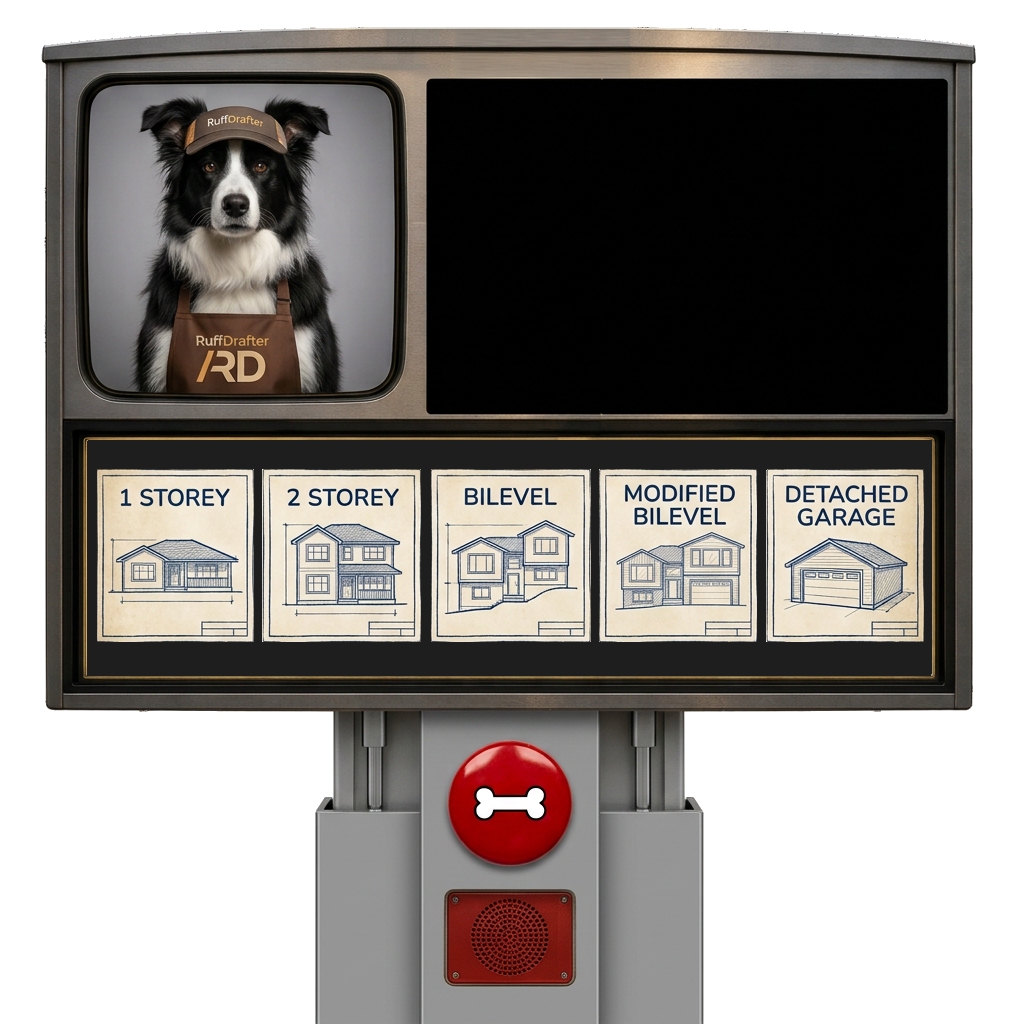
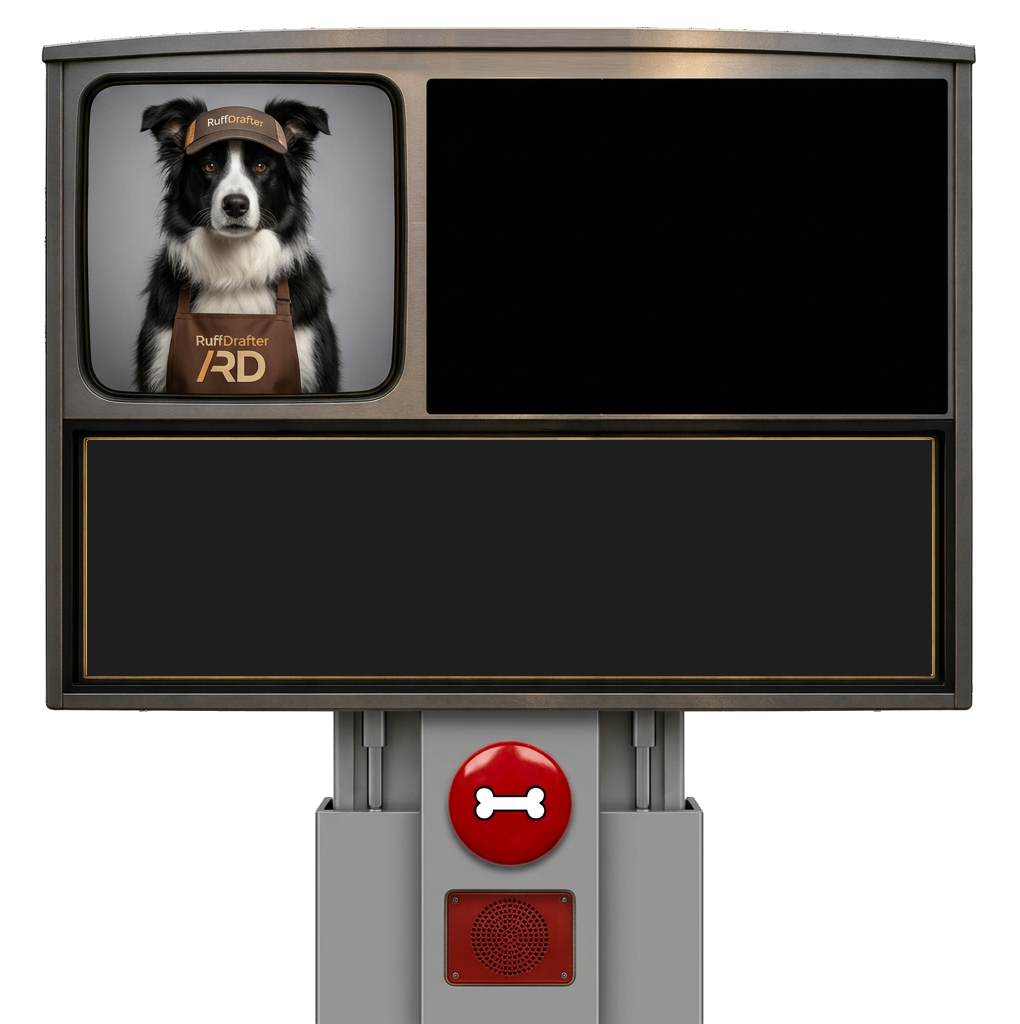
Movie's board and his five cards go up on the sign
THE ARTWORK IS THE DRIVE-THRU NOW: the blank kiosk -- Gruff in the left
window, the black screen for his words, the wide strip for the orders, the
bone on the post -- and one blueprint card per house type.

THE CARDS ARE KEYED BY MENU ID, not by position in a list. A tile looks up
./assets/house-<id>.png and wears it if it is there; if it is not, it
wears its lettering as before. So build-menu.js can grow an entry before
the art exists and nothing falls off the board, and no second ordering of
house types was written down to hang pictures on.

A TILE WEARING A CARD STILL SAYS ITS NAME. The words are clipped out of
sight rather than dropped -- the cards carry their own lettering, and a
button whose only name is a picture is a button a reader cannot read.

THE SUBMENU SPILLED OFF THE FRAME at the first card size: BUNGALOW's five
entries under the three families hung below the board, visible and
unpressable. The card is sized so both rows clear the shelf, and the new
check walks every tile at the width it happened at -- it passes at 46px
and fails at 62px, which is the only reason to believe it.

Changed region(s): [[0.0912, 0.4375, 0.9118, 0.625]]

diff --git a/MODEL.html b/MODEL.html
@@ -393,11 +393,11 @@
   #dt-line { font-size:clamp(11px, 2.1vw, 17px); font-weight:600; }
   #dt-note { font-size:clamp(9px, 1.5vw, 13px); opacity:0.7; }
   /* The tile strip: the house types, on the board's own shelf. */
-  #dt-tiles { position:absolute; left:8.6%; top:44.4%; width:81.3%; height:19%;
+  #dt-tiles { position:absolute; left:8%; top:43%; width:84%; height:23%;
     box-sizing:border-box; display:flex; flex-direction:column;
     justify-content:center; gap:4px; pointer-events:none; }
   #dt-tiles > * { pointer-events:auto; }
-  #dt-bone { position:absolute; left:50%; top:71.5%; width:14%;
+  #dt-bone { position:absolute; left:50%; top:72.4%; width:12%;
     transform:translateX(-50%); aspect-ratio:1 / 1; border:none; padding:0;
     border-radius:50%; background:transparent; cursor:pointer;
     pointer-events:auto; }
@@ -425,6 +425,24 @@
     cursor:pointer; color:#1f3f6b; padding:4px 8px; border-radius:2px;
     border:1px solid #1f3f6b; background:#f1e9d2; }
   #build-bar button:hover { background:#fff8e6; }
+  /* A CARD IS THE WHOLE BUTTON. Movie drew one per house type, lettering and
+     all, so the tile wearing one carries no text of its own -- the label
+     stays in the DOM for the reader and the check, clipped out of sight,
+     because a printed name under a printed name reads as a stutter. */
+  #build-bar button.card { padding:0; border:none; background:none;
+    line-height:0; }
+  /* TWO ROWS HAVE TO FIT THE SHELF. A family and its open submenu are both
+     on the board at once, so the card is sized so that pair clears the
+     black strip -- a tile that spills past the frame is an order the
+     drafter cannot reach. */
+  #build-bar button.card img { display:block; height:clamp(26px, 5vw, 46px);
+    width:auto; border:1px solid transparent; border-radius:2px; }
+  #build-bar button.card:hover img { border-color:#8f2a1d; }
+  #build-bar button.card.open img, #build-bar button.card.chosen img {
+    border-color:#8f2a1d; box-shadow:0 0 0 2px rgba(143,42,29,0.45); }
+  #build-bar button.card .said { position:absolute; width:1px; height:1px;
+    margin:-1px; padding:0; overflow:hidden; clip:rect(0 0 0 0);
+    white-space:nowrap; border:0; }
   /* The family whose submenu is open, and the type the drawing carries, both
      read as the page's one attention colour -- the same signal the wall tool
      uses when it is armed. */
@@ -3101,6 +3119,34 @@
   const familyRow = document.getElementById('build-families');
   const entryRow = document.getElementById('build-entries');
   let openFamilyId = null;
+  // THE CARDS ARE KEYED BY MENU ID, not by position in a list. Movie drew
+  // five -- 1 STOREY, 2 STOREY, BILEVEL, MODIFIED BILEVEL, DETACHED GARAGE --
+  // and they hang off whichever tile carries that id, family or entry. A tile
+  // with no card falls back to its lettering, so build-menu.js can grow an
+  // entry before the art for it exists and nothing disappears off the board.
+  const CARD_ART = Object.freeze({
+    bungalow: './assets/house-bungalow.png',
+    twoStorey: './assets/house-twoStorey.png',
+    bilevel: './assets/house-bilevel.png',
+    modifiedBilevel: './assets/house-modifiedBilevel.png',
+    detachedGarage: './assets/house-detachedGarage.png',
+  });
+
+  // The card if there is one, the words if there is not. Either way the
+  // label is the button's text, which is what every check reads and what a
+  // screen reader says.
+  const dressTile = (button, id, label) => {
+    const art = CARD_ART[id];
+    if (!art) { button.textContent = label; return; }
+    const card = document.createElement('img');
+    card.src = art;
+    card.alt = '';
+    const said = document.createElement('span');
+    said.className = 'said';
+    said.textContent = label;
+    button.replaceChildren(card, said);
+    button.classList.add('card');
+  };
   const chooseHandlers = [];
   const buildHandlers = [];
   let chosenEntryId = null;
@@ -3150,7 +3196,7 @@
       const button = document.createElement('button');
       button.type = 'button';
       button.dataset.buildFamily = family.id;
-      button.textContent = family.label;
+      dressTile(button, family.id, family.label);
       button.title = family.title;
       button.classList.toggle('open', openFamilyId === family.id);
       // A family with the chosen entry under it wears the mark, so the bar
@@ -3170,7 +3216,7 @@
       const button = document.createElement('button');
       button.type = 'button';
       button.dataset.buildEntry = entry.id;
-      button.textContent = entry.label;
+      dressTile(button, entry.id, entry.label);
       button.classList.toggle('chosen', entry.id === chosenEntryId);
       button.onclick = () => pressEntry(entry.id);
       return button;

diff --git a/tests/model-drivethru.spec.js b/tests/model-drivethru.spec.js
@@ -210,3 +210,49 @@ test('the bone on the post is the same bone, not a second one', async ({ page })
   expect(seen.log, 'the two bones did not fire one seam with one order')
     .toEqual([seen.chosen, seen.chosen]);
 });
+
+test('every tile is on the shelf and says its own name, card or no card',
+  async ({ page }) => {
+    // THE WIDTH THE SPILL HAPPENED AT. The cards are sized in vw, so a
+    // narrow window shrinks them out of trouble and the check would pass on
+    // a board it never looked at.
+    await page.setViewportSize({ width: 1440, height: 900 });
+    await openPage(page);
+    await h.openDriveThru(page);
+    // The submenu that spilled: BUNGALOW opens five entries under three
+    // families, which is the widest the shelf ever gets.
+    await page.locator('#dt-tiles [data-build-family="bungalow"]').click();
+    await expect(page.locator('#dt-tiles [data-build-entry]').first())
+      .toBeVisible();
+
+    // THE SHELF, not the whole board: the black strip is where the orders
+    // are printed, and a tile on the post or over Gruff's face is as lost as
+    // one off the frame.
+    const shelf = await page.locator('#dt-tiles').boundingBox();
+    const tiles = page.locator('#dt-tiles button');
+    const count = await tiles.count();
+    expect(count, 'the board went empty').toBeGreaterThan(5);
+
+    for (let i = 0; i < count; i += 1) {
+      const tile = tiles.nth(i);
+      const label = (await tile.textContent() || '').trim();
+
+      // A TILE WEARING ART STILL SAYS ITS NAME. Movie's cards carry their own
+      // lettering, so the words are clipped out of sight -- but a button
+      // whose only name is a picture is a button a screen reader cannot read
+      // and a check cannot find.
+      expect(label, `a tile ${i} with no name`).not.toBe('');
+
+      // ON THE BOARD, not past it. The card was sized at 62px and the open
+      // submenu hung below the frame, where the drafter could see an order
+      // and not press it.
+      const box = await tile.boundingBox();
+      expect(box.y + box.height,
+        `the ${label} tile hangs off the bottom of the shelf`)
+        .toBeLessThanOrEqual(shelf.y + shelf.height + 1);
+      expect(box.y, `the ${label} tile rides up off the shelf`)
+        .toBeGreaterThanOrEqual(shelf.y - 1);
+      expect(box.x, `the ${label} tile hangs off the side of the shelf`)
+        .toBeGreaterThanOrEqual(shelf.x - 1);
+    }
+  });
